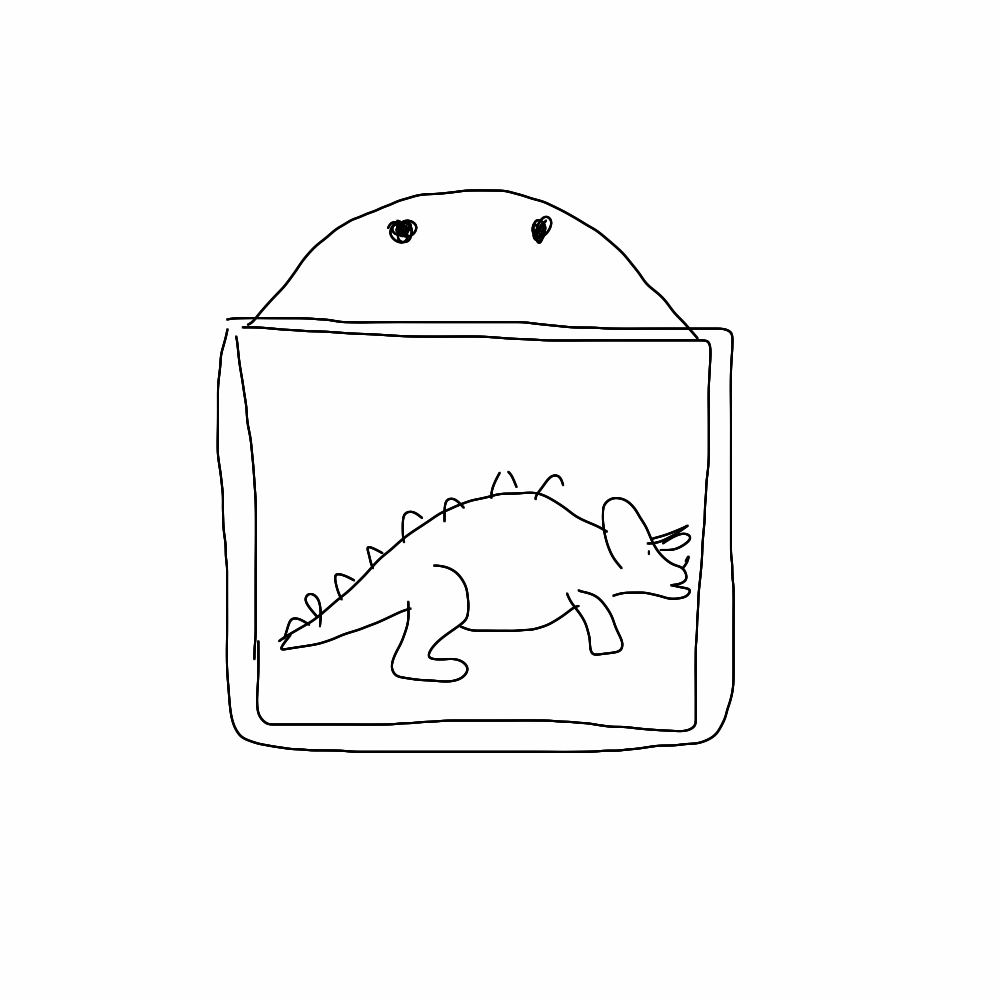
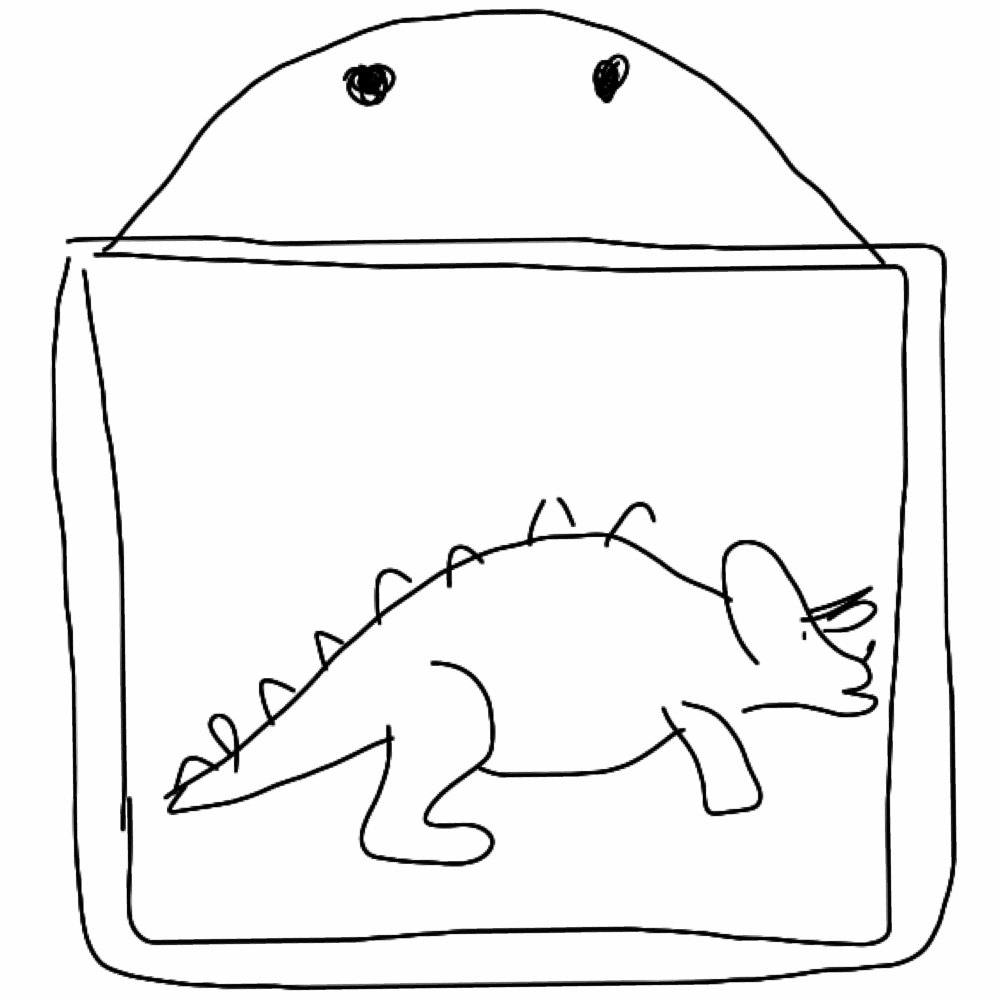
updated MDM rgp01 & 02

diff --git a/DecisionMaking/rgp02.tex b/DecisionMaking/rgp02.tex
@@ -19,6 +19,7 @@
 \newtheorem{example}{Example}
 \newtheorem{exercise}[question]{Exercise}
 \newtheorem*{challenge}{Challenge}
+\newtheorem{task}[question]{Task}
 
 \begin{document}
 
@@ -52,11 +53,92 @@ It is possible that a student might also:
 
 \section*{Reading and Questions for 28 August}
 
+Now that we have encoded attempted solutions to the picture hanging puzzle into diagrams and then symbols, we want to use these symbols to help us solve the puzzle.
+But first, we should note that there are several features of our symbol scheme we should understand more clearly.
 
+\subsection*{Changing Direction}
 
+The process for deciding on symbols depends upon a choice of ``direction of travel.''
+For example, the diagrams for $AB$ and $B^*A^*$ are the same, except for the direction of travel along the curve.
+\begin{task}
+Draw the diagrams corresponding to the symbols $AB$ and $B^*A^*$. Verify that these correspond to the same attempt to solve the picture hanging puzzle, except for the  direction of travel.
+\end{task}
+Now, that one is pretty straightforward.
+Let's check others.
+\begin{exercise}
+For each of the symbols below, \underline{draw} the corresponding diagram, and \underline{read the symbol} you get when you travel along the curve in the other direction.
+\begin{itemize}
+\item $ABAB$,
+\item $AB^*A^*$,
+\item $AB^*AA$.
+\end{itemize}
+\end{exercise}
+So now you have several examples to think about.
+(Psst. Do any of these solve the picture hanging puzzle? Check!)
 
-\begin{thebibliography}{9}
+\begin{question}
+A single diagram has two symbols, one for each direction of travel along the string.
+What is the relationship between the two possible symbols of a single diagram.
+\end{question}
 
- \end{thebibliography}
+\subsection*{Removing a Nail}
+
+An important part of the picture hanging puzzle is that you must remove nails.
+What happens to the symbols involved?
+
+There is no reason we cannot assign symbols to a configuration with only one nail. But if there is only one nail, we do not expect to see the label for the second nail in our symbol.
+\begin{example}
+Consider the diagram for the symbol $AB$.
+(This is the ``standard'' way to hang a picture on two nails.)
+If we remove the nail labelled $B$, then we get a configuration that should be labelled $A$.
+(\textbf{Draw this to check it.})
+\end{example}
+
+\begin{exercise}
+For each of the symbols below, \underline{draw} the diagram which corresponds, \underline{draw} the diagram with nail $A$ removed and \underline{find} the new symbol.
+Then, \underline{draw} the diagram with the nail $B$ removed and \underline{find} the new symbol.
+\end{exercise}
+
+\begin{question}
+What effect does removing a nail have on the symbols associated to a particular attempted solution to the picture hanging puzzle.
+\end{question}
+
+\subsection*{About those ${}^*$'s}
+
+Something interesting happens when you remove nail $B$ from the configuration $ABA^*$.
+The resulting configuration is $AA^*$.
+\textbf{Draw this configuration.} 
+Do you see that $AA^*$ is a poor description?
+If we pull the ends of the wire, that loop over nail A will shrink away!
+The symbol $AA^*$ is the same as no symbol at all.
+\begin{question}
+What should the ``empty'' symbol represent, physically, in terms of the picture and how it hangs on the wall?
+\end{question}
+
+\begin{task}
+Consider the three symbols below.
+For each one, \underline{draw} the corresponding diagram.
+Can the diagram be meaningfully simplified?
+If so, write down the symbol for the simplified diagram.
+\begin{itemize}
+\item $ABB^*AB$
+\item $BA^*ABAA^*$
+\item $BB^*A^*A$
+\end{itemize}
+\end{task}
+
+\begin{question}
+Describe a rule for simplifying a symbol that encapsulates what you have just learned.
+\end{question}
+
+\subsection*{Challenge Question}
+
+\begin{challenge} 
+Now that you have some more knowledge and experience, can you solve the 2 nail picture hanging puzzle?
+\end{challenge}
+
+%\begin{thebibliography}{9}
+
+ %\end{thebibliography}
 
 \end{document}

diff --git a/DecisionMaking/rgp01.tex b/DecisionMaking/rgp01.tex
@@ -36,7 +36,7 @@
 \rfoot{\emph{\thepage\ of \pageref{LastPage}}}
 
 \section*{Introduction}
-In this assignment you will learn about ``picture hanging puzzles."
+In this assignment you will learn about ``picture hanging puzzles.''
 This is our first introduction to a \emph{topological} problem, that is, a problem belonging to the field mathematicians call \emph{topology}.
 
 \section*{Goals}
@@ -46,17 +46,21 @@ At the end of this assignment, a student should be able to:
 \item draw diagrams corresponding to various arrangements of hanging a picture across two nails.
 \item write down a compact notation describing such a diagram.
 \item reconstruct a diagram from the relevant notation.
-\item (Perhaps?) Solve the 2 nail picture hanging puzzle.
+\end{itemize}
+In addition, a student may be able to:
+\begin{itemize}
+\item solve the 2 nail picture hanging puzzle.
 \end{itemize}
 
 \section*{Reading and Questions for 28 Aug}
 
+\subsection*{The Picture Hanging Puzzle}
 The original picture hanging puzzle is due to A.~Spivak \cite{Spivak}.
 (Our study of it is based partly on work by Demaine et al. \cite{Demaine})
 Ordinarily one hangs a framed picture by looping a wire over a nail, like so:
 \begin{figure}[h]
     \centering
-    \includegraphics[height=3in]{rgp01pics/wedding.png}
+    \includegraphics[height=2.75in]{rgp01pics/wedding.png}
     \caption{A photo from Prof H's wedding.}
 \end{figure}
  
@@ -66,7 +70,7 @@ What if you had two nails, side-by-side?
 Most people would use an arrangment like this:
 \begin{figure}[ht]
     \centering
-    \includegraphics[height=2in]{rgp01pics/dinosaur}
+    \includegraphics[height=1.75in]{rgp01pics/dinosaur}
     \caption{We don't need the framed pictures anymore, do we?}
 \end{figure}
 
@@ -74,15 +78,13 @@ In this case, removing either nail doesn't make the picture fall down.
 It might hang crookedly, but it will stay on the wall.
 
 \begin{quotation}
-\textbf{2 Nail Picture Hanging Puzzle (PHP2)}\\
-Is there a way to arrange the wire around the two nails so that
-\begin{enumerate}
-\item with both nails, the picture hangs from the wall, but
-\item if \textbf{either} nail is removed, the picture will fall down?
-\end{enumerate}
+\textbf{2 Nail Picture Hanging Puzzle (PHP2)}:
+Is there a way to arrange the wire around the two nails so that (1) with both nails, the picture hangs from the wall, but (2) if \textbf{either} nail is removed, the picture will fall down?
 \end{quotation}
 
 Our big goal for the week is to understand and solve this problem and some others like it.
+
+\subsection*{Modelling the Problem}
 
 We start by replacing the idea of a picture hanging by a wire from two nails with a curve snaking around two big dots.
 The curve represents the wire and the big dots represent the two nails.
@@ -111,6 +113,9 @@ For convenience, I have labelled the nails $A$ and $B$ so we can tell them apart
 \end{figure}
 \end{question}
 
+\clearpage
+\subsection*{Abstracting the Problem to Symbols}
+
 We have abstracted away the picture, and turned the nails into dots and the wire into a curve on the page, but more is possible.
 We can get rid of the diagrams completely by introducing some symbols!
 
@@ -135,7 +140,7 @@ In Attempt 1, start on the left hand side.
 Then you trace along with your finger to see:\\
 \begin{center}
 \begin{tabular}{lc}
-the curve goes... & symbol \\
+As the curve goes... & symbol \\
 \hline
 over A left to right & $A$\\
 over B left to right & $B$\\
@@ -173,6 +178,8 @@ This has the following diagram:
 Double check your work by reading back the symbol from your picture.\\
 (Psst. Hey. Do any of your symbols happen to solve the picture hanging puzzle?)
 \end{exercise}
+
+\subsection*{Challenge Question}
 
 \begin{challenge}
 Now that you have a new way to organize things, can you solve the 2 nail picture hanging puzzle?
